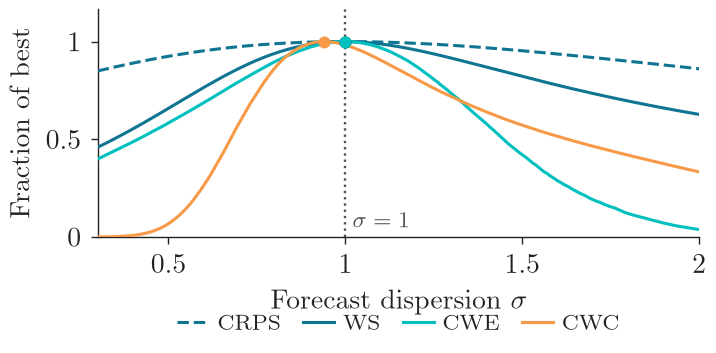
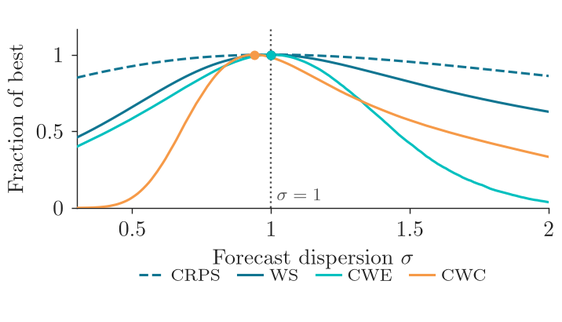
docs: standardize README thumbnail sizes and add ch1/4/5 illustrations
All seven chapter thumbnails now share assets/ch2.png's exact canvas size
(562x322), so the README table reads with even column widths. Chapters 1,
4 and 5 previously had no real figure (ch1 reused the full roadmap, ch4
had none, ch5's fan chart didn't show what makes FPQR different) -- add
small schematic illustrations of each chapter's own idea instead: a
history-then-forecast motif for the Introduction, parameters-vs-NRMSE for
MLPF's lightweight-but-accurate claim, and a learned-vs-fixed quantile
grid for FPQR. Generated by scripts/generate_readme_thumbnails.py.

diff --git a/scripts/generate_readme_thumbnails.py b/scripts/generate_readme_thumbnails.py
@@ -1,0 +1,168 @@
+"""Generate and standardize the README's per-chapter thumbnail images.
+
+Two jobs:
+
+1. New illustrative schematics for chapters that had none (Introduction, MLPF)
+   or whose existing thumbnail didn't actually illustrate the chapter's own
+   idea (FPQR's fan chart could be any quantile regressor; it never showed
+   what makes FPQR different, a *learned* rather than *fixed* quantile grid).
+   These are schematic illustrations with synthetic numbers, not real thesis
+   results -- unlike ``assets/ch2.png``/``ch3.png``/``ch6.png``/``ch7.png``,
+   which are each chapter's own generated figure, copied in verbatim.
+2. A consistent canvas size for every thumbnail in the README's chapter
+   table, so the table renders with uniform column widths. ``assets/ch2.png``
+   is the reference size (562x322 px); every other thumbnail is fit onto a
+   canvas of that same size, letterboxed on a white background rather than
+   stretched, so no chapter's real figure is distorted.
+
+Usage::
+
+    uv run python scripts/generate_readme_thumbnails.py
+"""
+
+from __future__ import annotations
+
+from pathlib import Path
+
+import matplotlib.pyplot as plt
+import numpy as np
+from PIL import Image
+
+from twiga_thesis.plotting import style, tokens
+
+ASSETS = Path(__file__).resolve().parent.parent / "assets"
+REFERENCE_SIZE = (562, 322)  # assets/ch2.png's own pixel size, the standard every thumbnail matches
+FIGSIZE = (2.81, 1.61)  # inches; at DPI below, renders at exactly REFERENCE_SIZE
+DPI = 200
+
+
+def make_introduction_thumbnail() -> None:
+    """Chapter 1: a minimal history-then-forecast motif, the thesis's own framing."""
+    style.configure(latex=False)
+    fig, ax = plt.subplots(figsize=FIGSIZE, dpi=DPI)
+
+    hours = np.linspace(0, 24, 200)
+    history_cutoff = 14.0
+    net_load = 1.0 + 0.6 * np.sin((hours - 6) / 24 * 2 * np.pi) + 0.15 * np.sin(hours / 2)
+    history = hours <= history_cutoff
+    forecast = hours >= history_cutoff
+
+    ax.plot(hours[history], net_load[history], color=tokens.TEXT_DARK, lw=1.4)
+    ax.plot(hours[forecast], net_load[forecast], color=tokens.PRIMARY, lw=1.4, ls="--")
+    spread = 0.05 + 0.22 * (hours[forecast] - history_cutoff) / (24 - history_cutoff)
+    ax.fill_between(
+        hours[forecast],
+        net_load[forecast] - spread,
+        net_load[forecast] + spread,
+        color=tokens.PRIMARY,
+        alpha=0.18,
+        linewidth=0,
+    )
+    ax.axvline(history_cutoff, color=tokens.TEXT_MUTED, lw=0.8, ls=":")
+    ax.text(history_cutoff - 0.6, net_load.max() + 0.12, "Measured", ha="right", fontsize=9, color=tokens.TEXT_DARK)
+    ax.text(history_cutoff + 0.6, net_load.max() + 0.12, "Forecast", ha="left", fontsize=9, color=tokens.PRIMARY)
+
+    ax.set_xlim(hours.min(), hours.max())
+    ax.set_ylim(net_load.min() - 0.3, net_load.max() + 0.3)
+    ax.axis("off")
+    fig.tight_layout(pad=0.3)
+    fig.savefig(ASSETS / "ch1.png", dpi=DPI, bbox_inches="tight", facecolor="white")
+    plt.close(fig)
+
+
+def make_mlpf_thumbnail() -> None:
+    """Chapter 4: lightweight-vs-accurate, the chapter's own central claim, as a scatter."""
+    style.configure(latex=False)
+    fig, ax = plt.subplots(figsize=FIGSIZE, dpi=DPI)
+
+    baseline_parameters = np.array([450, 820, 1600, 2400])
+    baseline_nrmse = np.array([0.168, 0.159, 0.152, 0.149])
+    mlpf_parameters, mlpf_nrmse = 95, 0.151
+
+    ax.scatter(baseline_parameters, baseline_nrmse, color=tokens.TEXT_MUTED, s=28, zorder=2, label="Baselines")
+    ax.scatter(
+        mlpf_parameters,
+        mlpf_nrmse,
+        color=tokens.PRIMARY,
+        s=70,
+        zorder=3,
+        edgecolor="white",
+        linewidth=0.8,
+        label="MLPF",
+    )
+    ax.annotate(
+        "MLPF",
+        xy=(mlpf_parameters, mlpf_nrmse),
+        xytext=(mlpf_parameters * 1.6, mlpf_nrmse + 0.006),
+        fontsize=9,
+        color=tokens.PRIMARY,
+        arrowprops={"arrowstyle": "-", "color": tokens.PRIMARY, "lw": 0.7},
+    )
+    ax.set_xscale("log")
+    ax.set_xlabel("Parameters", fontsize=9)
+    ax.set_ylabel("NRMSE", fontsize=9)
+    ax.tick_params(labelsize=8)
+    for side in ("top", "right"):
+        ax.spines[side].set_visible(False)
+    fig.tight_layout(pad=0.3)
+    fig.savefig(ASSETS / "ch4.png", dpi=DPI, bbox_inches="tight", facecolor="white")
+    plt.close(fig)
+
+
+def make_fpqr_thumbnail() -> None:
+    """Chapter 5: a learned, non-uniform quantile grid next to a fixed, uniform one -- FPQR's own idea."""
+    style.configure(latex=False)
+    fig, ax = plt.subplots(figsize=FIGSIZE, dpi=DPI)
+
+    fixed_grid = np.linspace(0.1, 0.9, 9)
+    rng = np.random.default_rng(7)
+    learned_grid = np.sort(np.clip(np.concatenate([rng.beta(0.6, 0.6, 7), [0.5, 0.5]]), 0.03, 0.97))[:9]
+
+    ax.scatter(fixed_grid, np.ones_like(fixed_grid), color=tokens.TEXT_MUTED, s=26, zorder=2)
+    ax.scatter(learned_grid, np.zeros_like(learned_grid), color=tokens.PRIMARY, s=26, zorder=2)
+    ax.text(-0.04, 1, "Fixed", ha="right", va="center", fontsize=9, color=tokens.TEXT_MUTED)
+    ax.text(-0.04, 0, "Learned", ha="right", va="center", fontsize=9, color=tokens.PRIMARY)
+
+    for level in (0, 1):
+        ax.axhline(level, color=tokens.GRID, lw=0.6, zorder=1)
+
+    ax.set_xlim(-0.22, 1.02)
+    ax.set_ylim(-0.6, 1.6)
+    ax.set_xlabel("Quantile fraction", fontsize=9)
+    ax.set_xticks([0, 0.25, 0.5, 0.75, 1.0])
+    ax.tick_params(labelsize=8)
+    ax.set_yticks([])
+    for side in ("top", "right", "left"):
+        ax.spines[side].set_visible(False)
+    fig.tight_layout(pad=0.3)
+    fig.savefig(ASSETS / "ch5.png", dpi=DPI, bbox_inches="tight", facecolor="white")
+    plt.close(fig)
+
+
+def fit_to_reference_canvas(path: Path) -> None:
+    """Letterbox ``path`` onto a white :data:`REFERENCE_SIZE` canvas, preserving its aspect ratio.
+
+    Scales the existing image down (never up) to fit within the reference canvas and centers it,
+    so a chapter's real generated figure is resized, never cropped or stretched.
+    """
+    image = Image.open(path).convert("RGBA")
+    scale = min(REFERENCE_SIZE[0] / image.width, REFERENCE_SIZE[1] / image.height, 1.0)
+    new_size = (round(image.width * scale), round(image.height * scale))
+    resized = image.resize(new_size, Image.LANCZOS)
+    canvas = Image.new("RGBA", REFERENCE_SIZE, (255, 255, 255, 255))
+    offset = ((REFERENCE_SIZE[0] - new_size[0]) // 2, (REFERENCE_SIZE[1] - new_size[1]) // 2)
+    canvas.paste(resized, offset, resized)
+    canvas.convert("RGB").save(path)
+
+
+def main() -> None:
+    make_introduction_thumbnail()
+    make_mlpf_thumbnail()
+    make_fpqr_thumbnail()
+    for name in ("ch1.png", "ch3.png", "ch4.png", "ch5.png", "ch6.png", "ch7.png"):
+        fit_to_reference_canvas(ASSETS / name)
+    print(f"wrote ch1.png, ch4.png, ch5.png and re-fit ch3/ch6/ch7.png to {REFERENCE_SIZE} in {ASSETS}")
+
+
+if __name__ == "__main__":
+    main()

diff --git a/README.md b/README.md
@@ -21,10 +21,10 @@ Per-chapter reproducibility code for the thesis. Depends on
 
 | # | Chapter | RQ | |
 |---|---|---|---|
-| 1 | [Introduction](chapters/ch1_introduction/) | Setting the stage | <img src="assets/roadmap.png" height="150"> |
+| 1 | [Introduction](chapters/ch1_introduction/) | Setting the stage | <img src="assets/ch1.png" height="150"> |
 | 2 | [Background](chapters/ch2_background/) | Setting the stage | <img src="assets/ch2.png" height="150"> |
 | 3 | [Methodology](chapters/ch3_methodology/) | RQ1 | <img src="assets/ch3.png" height="150"> |
-| 4 | [MLPF](chapters/ch4_mlpf/) | RQ2 | MLPF vs. ML/DNN baselines |
+| 4 | [MLPF](chapters/ch4_mlpf/) | RQ2 | <img src="assets/ch4.png" height="150"> |
 | 5 | [FPQR](chapters/ch5_fpqr/) | RQ3 | <img src="assets/ch5.png" height="150"> |
 | 6 | [Conformal Prediction](chapters/ch6_conformal/) | RQ3 | <img src="assets/ch6.png" height="150"> |
 | 7 | [Multi-Target Forecasting](chapters/ch7_multitarget/) | RQ4 | <img src="assets/ch7.png" height="150"> |
@@ -32,8 +32,10 @@ Per-chapter reproducibility code for the thesis. Depends on
 
 Each chapter folder has its own `README.md` with the exact reproduction command and the thesis
 table/figure each output maps to. RQ3 covers both Chapter 5 (FPQR) and Chapter 6 (MLPGAM +
-conformal calibration), per the thesis's own framing. Images are each chapter's own generated
-output, not stock illustrations.
+conformal calibration), per the thesis's own framing. Chapters 2, 3, 6 and 7 show that chapter's
+own generated figure; Chapters 1, 4 and 5 show a small schematic illustrating the chapter's own
+idea rather than a result figure (`scripts/generate_readme_thumbnails.py`). Every thumbnail shares
+one canvas size so the table reads evenly.
 
 ## Quickstart
 
